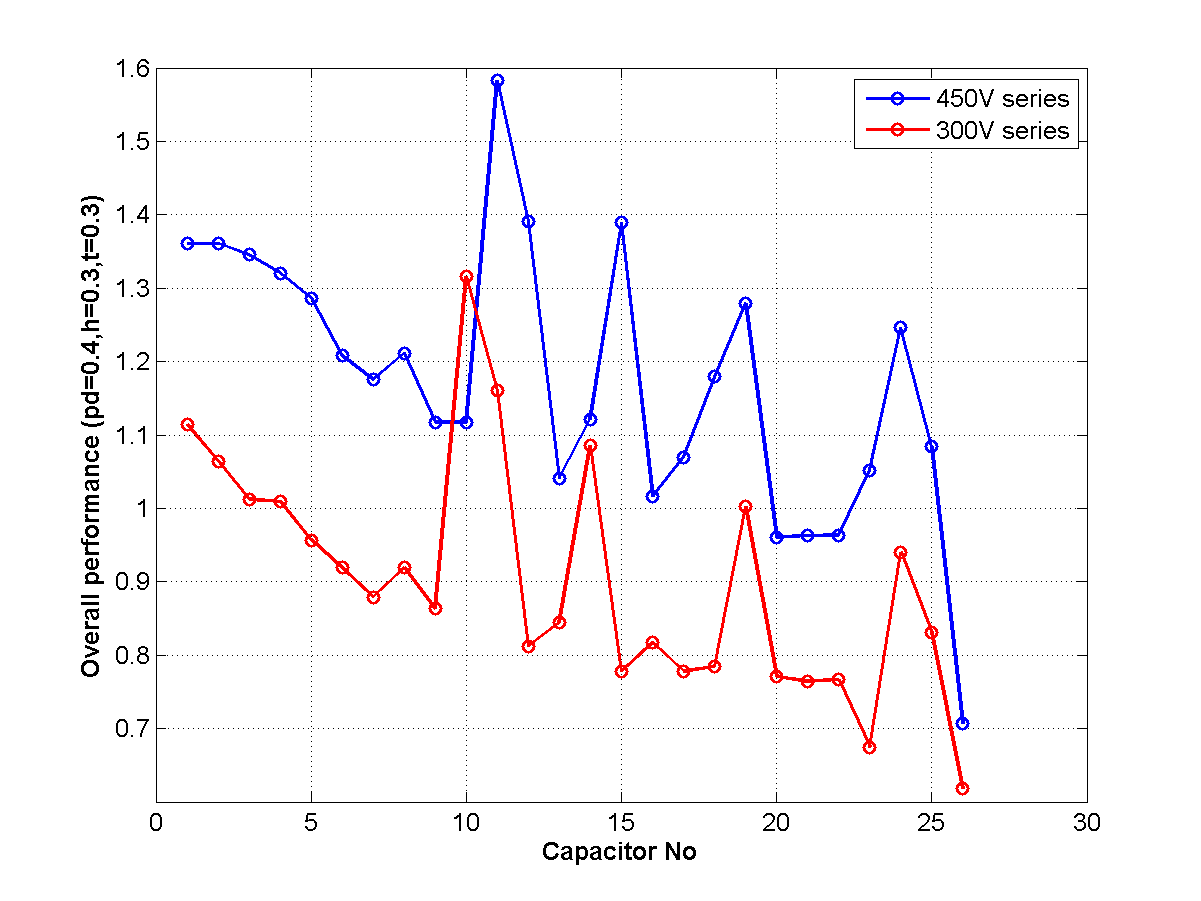
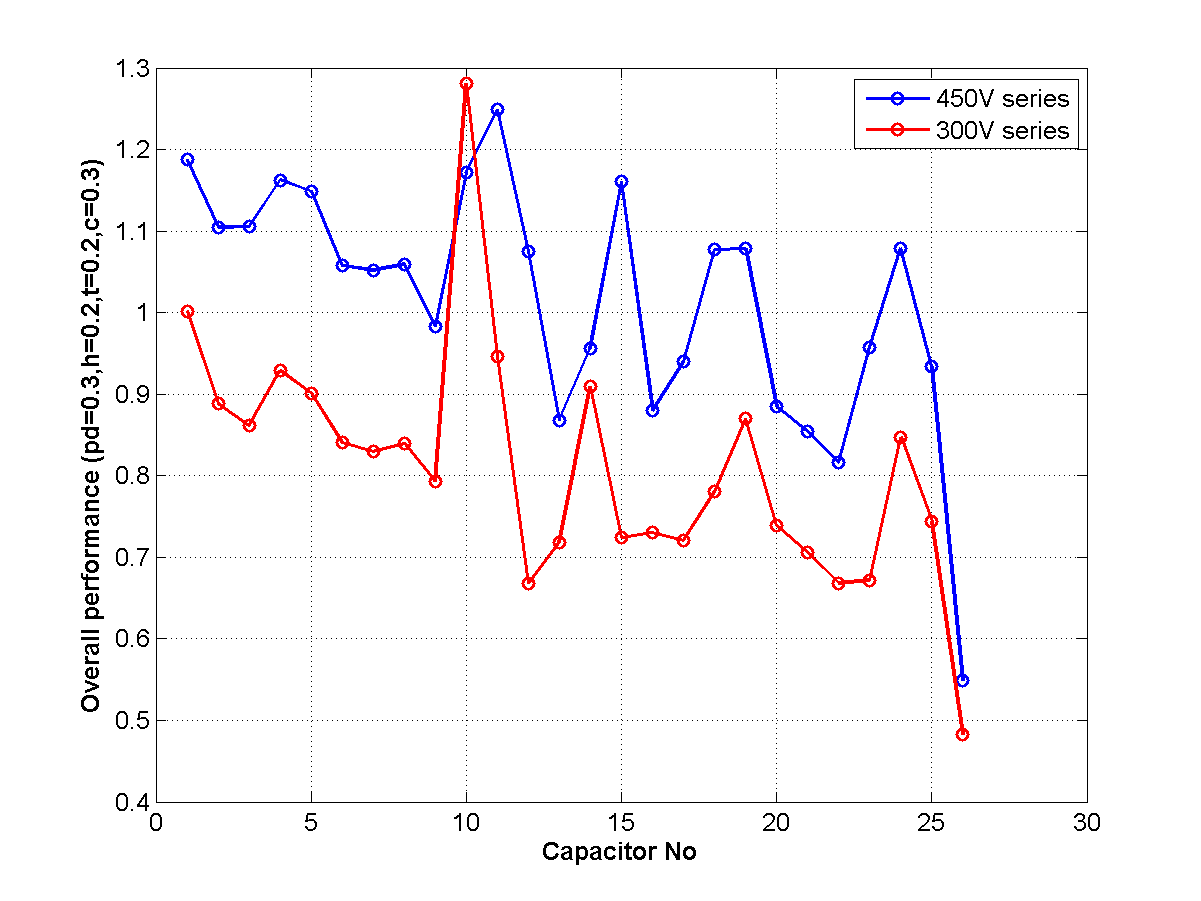
results of evaluation.

diff --git a/simulation/immd_capacitor_rms_current.m b/simulation/immd_capacitor_rms_current.m
@@ -239,16 +239,33 @@ ylabel('Height (mm)','FontSize',12,'FontWeight','Bold')
 legend('450V series','300V series','Limit')
 print(fig,'height','-dpng')
 
+% COST
+cost_300 = 2*parallel_450'.*fpc_300v(:,1)*2/3;
+cost_450 = parallel_450'.*fpc_450v(:,1)*2/3;
+
+fig = figure;
+plot(cap_select,cost_450,'bo-','Linewidth',1.5);
+hold on;
+plot(cap_select,cost_300,'ro-','Linewidth',1.5);
+hold off;
+grid on;
+set(gca,'FontSize',12);
+xlabel('Capacitor No','FontSize',12,'FontWeight','Bold')
+ylabel('Cost (Euro)','FontSize',12,'FontWeight','Bold')
+legend('450V series','300V series','Limit')
+print(fig,'costeuro','-dpng')
+
 
 %%
 % Give weights to the constraints and check overall performance
 
 % Overall performance - 1
-weight_pd = 0.4;
-weight_h = 0.3;
-weight_t = 0.3;
-overall_300 = weight_pd*power_density_300/10 + weight_h./(height_300/40) + weight_t./(Tcore_300/45);
-overall_450 = weight_pd*power_density_450/10 + weight_h./(height_450/40) + weight_t./(Tcore_450/45);
+weight_pd = 0.3;
+weight_h = 0.2;
+weight_t = 0.2;
+weight_c = 0.3;
+overall_300 = weight_pd*power_density_300/10 + weight_h./(height_300/40) + weight_t./(Tcore_300/45) + weight_c./(cost_300/75);
+overall_450 = weight_pd*power_density_450/10 + weight_h./(height_450/40) + weight_t./(Tcore_450/45) + weight_c./(cost_300/75);
 fig = figure;
 plot(cap_select,overall_450,'bo-','Linewidth',1.5);
 hold on;
@@ -257,16 +274,17 @@ hold off;
 grid on;
 set(gca,'FontSize',12);
 xlabel('Capacitor No','FontSize',12,'FontWeight','Bold')
-ylabel('Overall performance (pd=0.4,h=0.3,t=0.3)','FontSize',12,'FontWeight','Bold')
+ylabel('Overall performance (pd=0.3,h=0.2,t=0.2,c=0.3)','FontSize',12,'FontWeight','Bold')
 legend('450V series','300V series')
 print(fig,'overall-1','-dpng')
 
 % Overall performance - 2
-weight_pd = 0.5;
+weight_pd = 0.4;
 weight_h = 0.2;
-weight_t = 0.3;
-overall_300 = weight_pd*power_density_300/10 + weight_h./(height_300/40) + weight_t./(Tcore_300/45);
-overall_450 = weight_pd*power_density_450/10 + weight_h./(height_450/40) + weight_t./(Tcore_450/45);
+weight_t = 0.2;
+weight_c = 0.2;
+overall_300 = weight_pd*power_density_300/10 + weight_h./(height_300/40) + weight_t./(Tcore_300/45) + weight_c./(cost_300/75);
+overall_450 = weight_pd*power_density_450/10 + weight_h./(height_450/40) + weight_t./(Tcore_450/45) + weight_c./(cost_300/75);
 fig = figure;
 plot(cap_select,overall_450,'bo-','Linewidth',1.5);
 hold on;
@@ -275,16 +293,17 @@ hold off;
 grid on;
 set(gca,'FontSize',12);
 xlabel('Capacitor No','FontSize',12,'FontWeight','Bold')
-ylabel('Overall performance (pd=0.5,h=0.2,t=0.3)','FontSize',12,'FontWeight','Bold')
+ylabel('Overall performance (pd=0.4,h=0.2,t=0.2,c=0.2)','FontSize',12,'FontWeight','Bold')
 legend('450V series','300V series')
 print(fig,'overall-2','-dpng')
 
 % Overall performance - 3
-weight_pd = 0.4;
+weight_pd = 0.2;
 weight_h = 0.2;
-weight_t = 0.4;
-overall_300 = weight_pd*power_density_300/10 + weight_h./(height_300/40) + weight_t./(Tcore_300/45);
-overall_450 = weight_pd*power_density_450/10 + weight_h./(height_450/40) + weight_t./(Tcore_450/45);
+weight_t = 0.2;
+weight_c = 0.4;
+overall_300 = weight_pd*power_density_300/10 + weight_h./(height_300/40) + weight_t./(Tcore_300/45) + weight_c./(cost_300/75);
+overall_450 = weight_pd*power_density_450/10 + weight_h./(height_450/40) + weight_t./(Tcore_450/45) + weight_c./(cost_300/75);
 fig = figure;
 plot(cap_select,overall_450,'bo-','Linewidth',1.5);
 hold on;
@@ -293,9 +312,28 @@ hold off;
 grid on;
 set(gca,'FontSize',12);
 xlabel('Capacitor No','FontSize',12,'FontWeight','Bold')
-ylabel('Overall performance (pd=0.4,h=0.2,t=0.4)','FontSize',12,'FontWeight','Bold')
+ylabel('Overall performance (pd=0.2,h=0.2,t=0.2,c=0.4)','FontSize',12,'FontWeight','Bold')
 legend('450V series','300V series')
 print(fig,'overall-3','-dpng')
+
+% Overall performance - 4
+weight_pd = 0.2;
+weight_h = 0.3;
+weight_t = 0.3;
+weight_c = 0.2;
+overall_300 = weight_pd*power_density_300/10 + weight_h./(height_300/40) + weight_t./(Tcore_300/45) + weight_c./(cost_300/75);
+overall_450 = weight_pd*power_density_450/10 + weight_h./(height_450/40) + weight_t./(Tcore_450/45) + weight_c./(cost_300/75);
+fig = figure;
+plot(cap_select,overall_450,'bo-','Linewidth',1.5);
+hold on;
+plot(cap_select,overall_300,'ro-','Linewidth',1.5);
+hold off;
+grid on;
+set(gca,'FontSize',12);
+xlabel('Capacitor No','FontSize',12,'FontWeight','Bold')
+ylabel('Overall performance (pd=0.2,h=0.3,t=0.3,c=0.2)','FontSize',12,'FontWeight','Bold')
+legend('450V series','300V series')
+print(fig,'overall-4','-dpng')
 
 
 

diff --git a/ISIE 2017/sampleresults.md b/ISIE 2017/sampleresults.md
@@ -1,3 +1,8 @@
 ![](./resultimages/powerdensity.png)
 ![](./resultimages/temperature.png)
 ![](./resultimages/height.png)
+![](./resultimages/costeuro.png)
+![](./resultimages/overall-1.png)
+![](./resultimages/overall-2.png)
+![](./resultimages/overall-3.png)
+![](./resultimages/overall-4.png)
